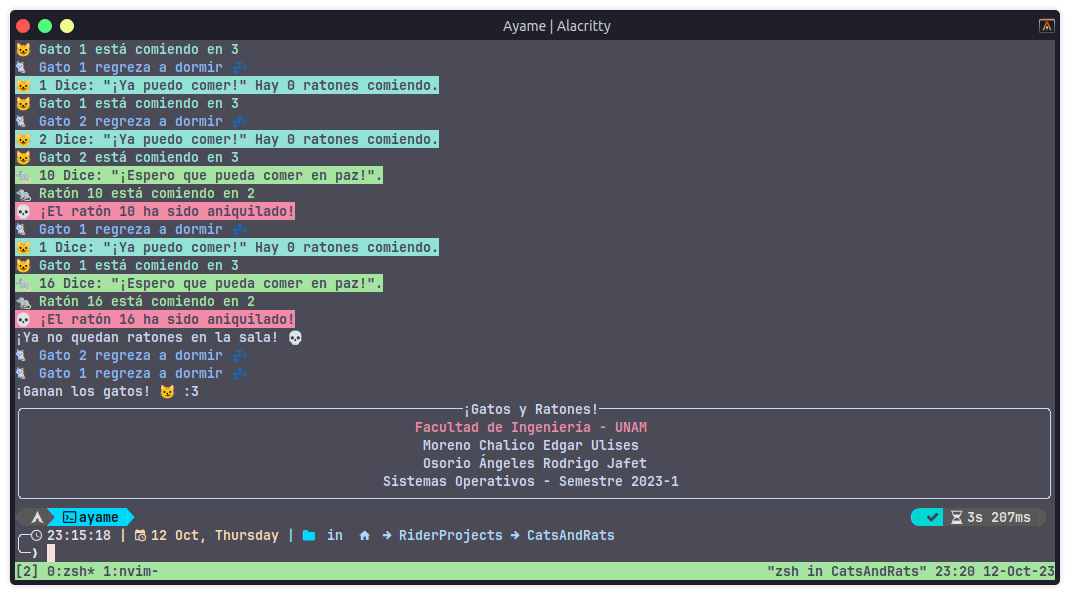
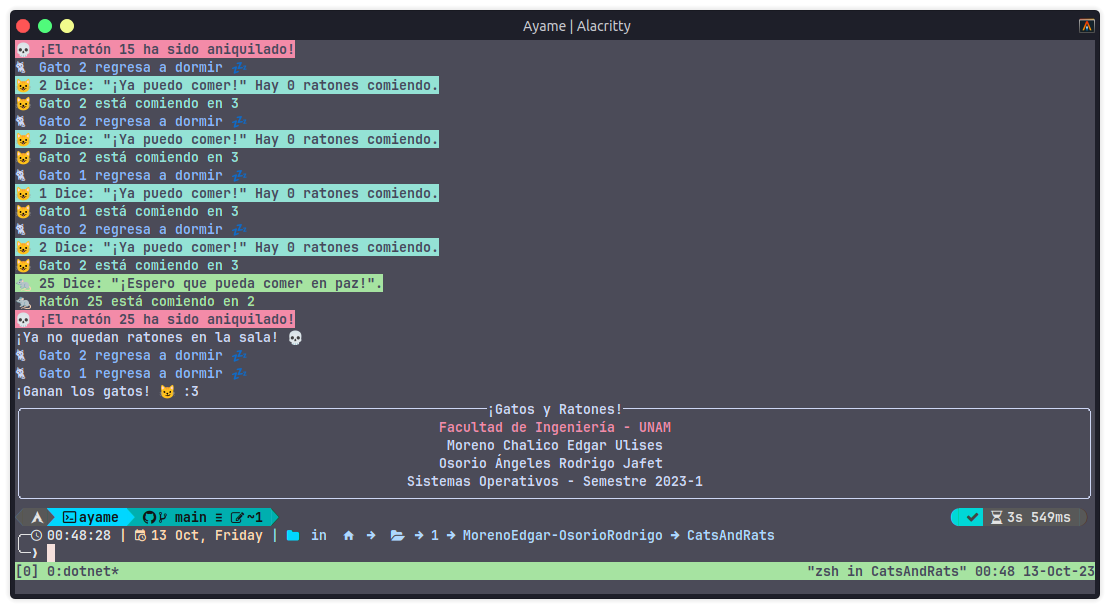
Corrijo el archivo CatsAndRats.cs

Changed region(s): [[0.0, 0.0303, 0.9869, 0.9983], [0.4626, 0.0303, 0.586, 0.0605], [0.9561, 0.0303, 0.9869, 0.0605]]

diff --git a/tareas/1/MorenoEdgar-OsorioRodrigo/CatsAndRats/sistop/CatsAndRats.cs b/tareas/1/MorenoEdgar-OsorioRodrigo/CatsAndRats/sistop/CatsAndRats.cs
@@ -73,7 +73,7 @@ public class CatsAndRats
             gatoMutex.Release();
             platos.Release();
 
-            AnsiConsole.MarkupLine($":cat: [blue]Gato {id} regreza a dormir :zzz:[/]");
+            AnsiConsole.MarkupLine($":cat: [blue]Gato {id} regresa a dormir :zzz:[/]");
         }
     }
 
@@ -118,7 +118,7 @@ public class CatsAndRats
             platos.Release(); // El ratón libera el plato.
 
             if (vivo) // Si sigue vivo, puede regresar a su refugio.
-                AnsiConsole.MarkupLine($":rat: [green]Ratón {id} regreza a refugiarse.[/]");
+                AnsiConsole.MarkupLine($":rat: [green]Ratón {id} regresa a refugiarse.[/]");
         }
     }
 
@@ -163,3 +163,4 @@ public class CatsAndRats
         AnsiConsole.MarkupLine("¡Ganan los gatos! :cat_with_wry_smile: :3");
     }
 }
+
